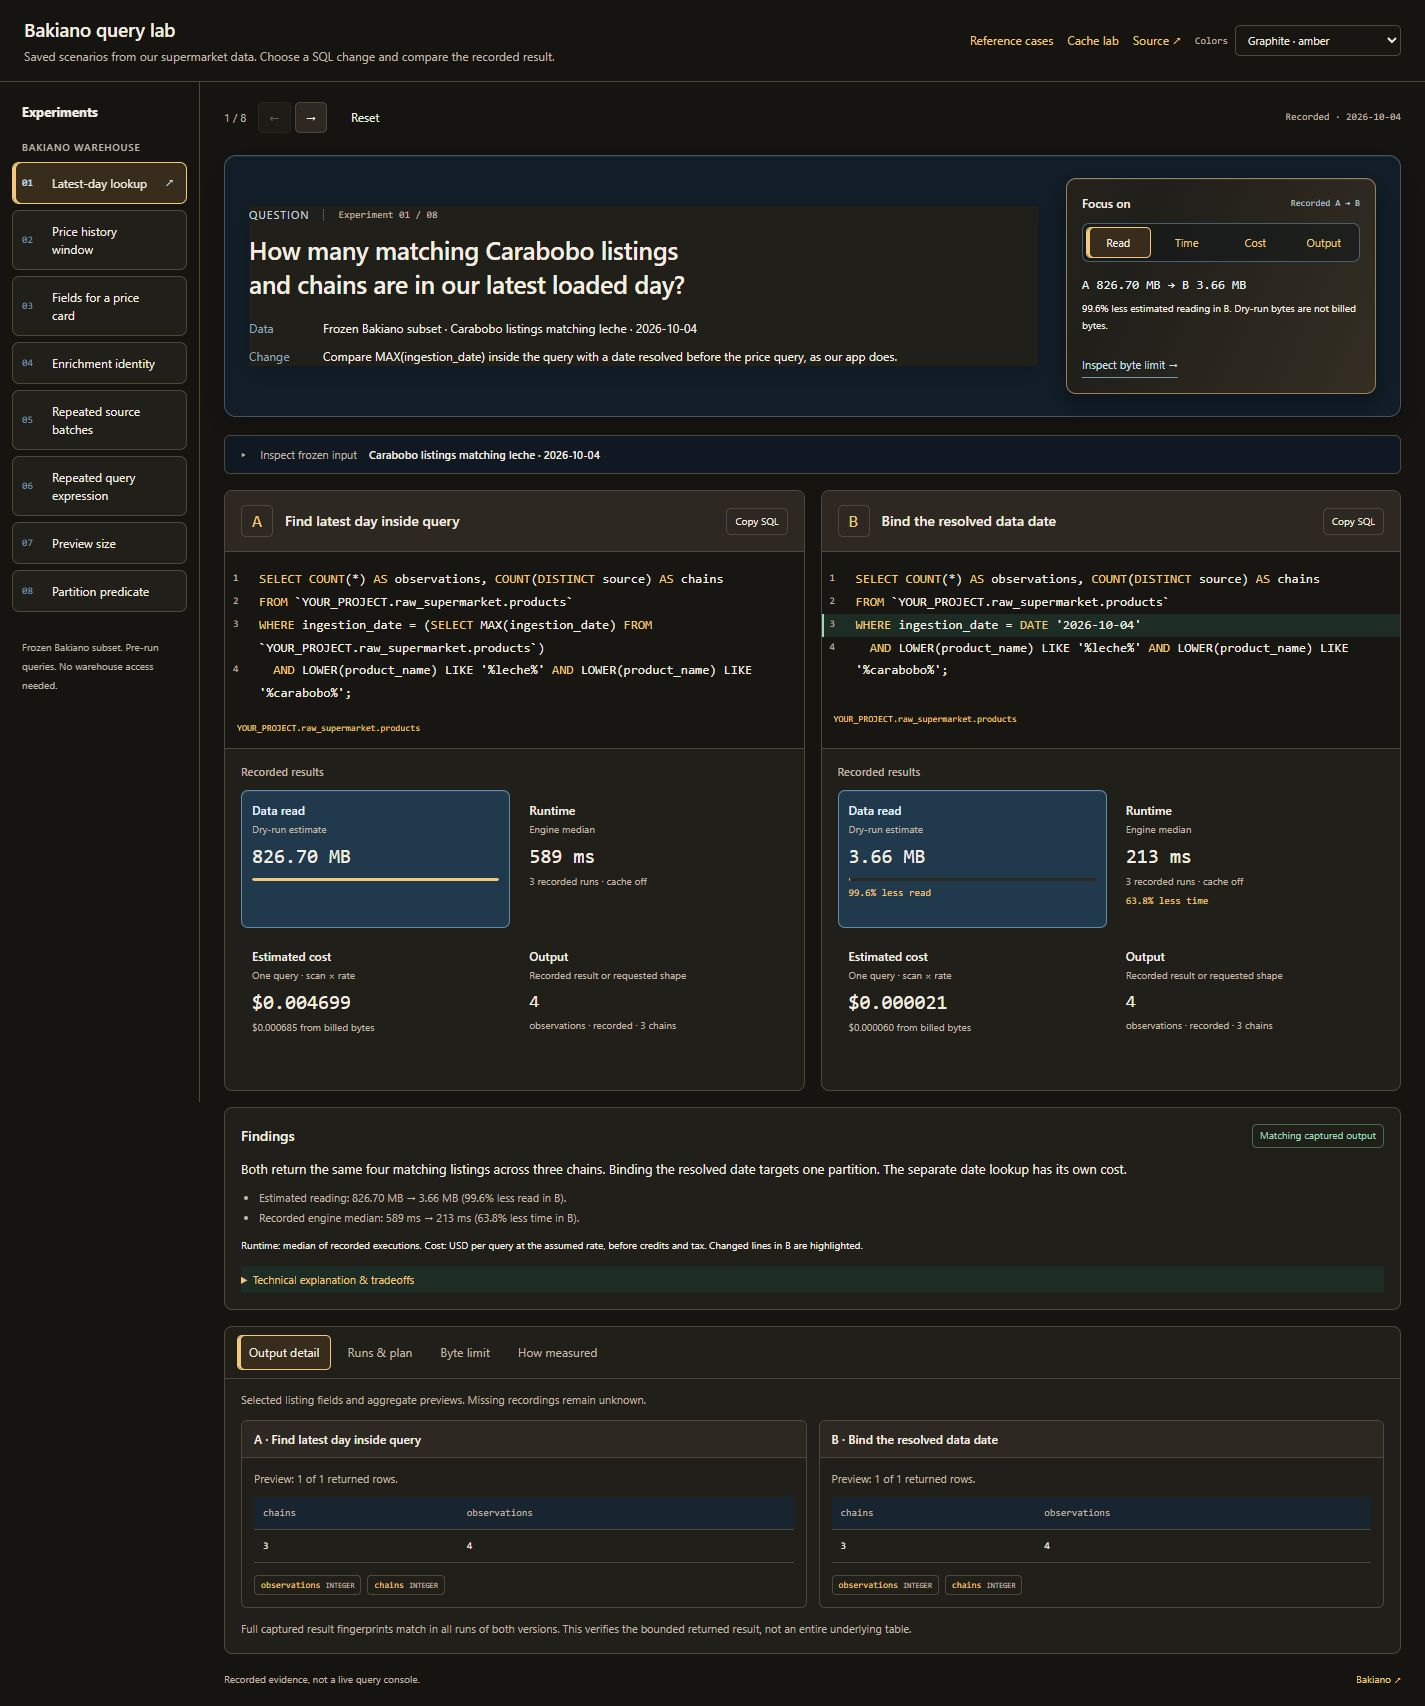
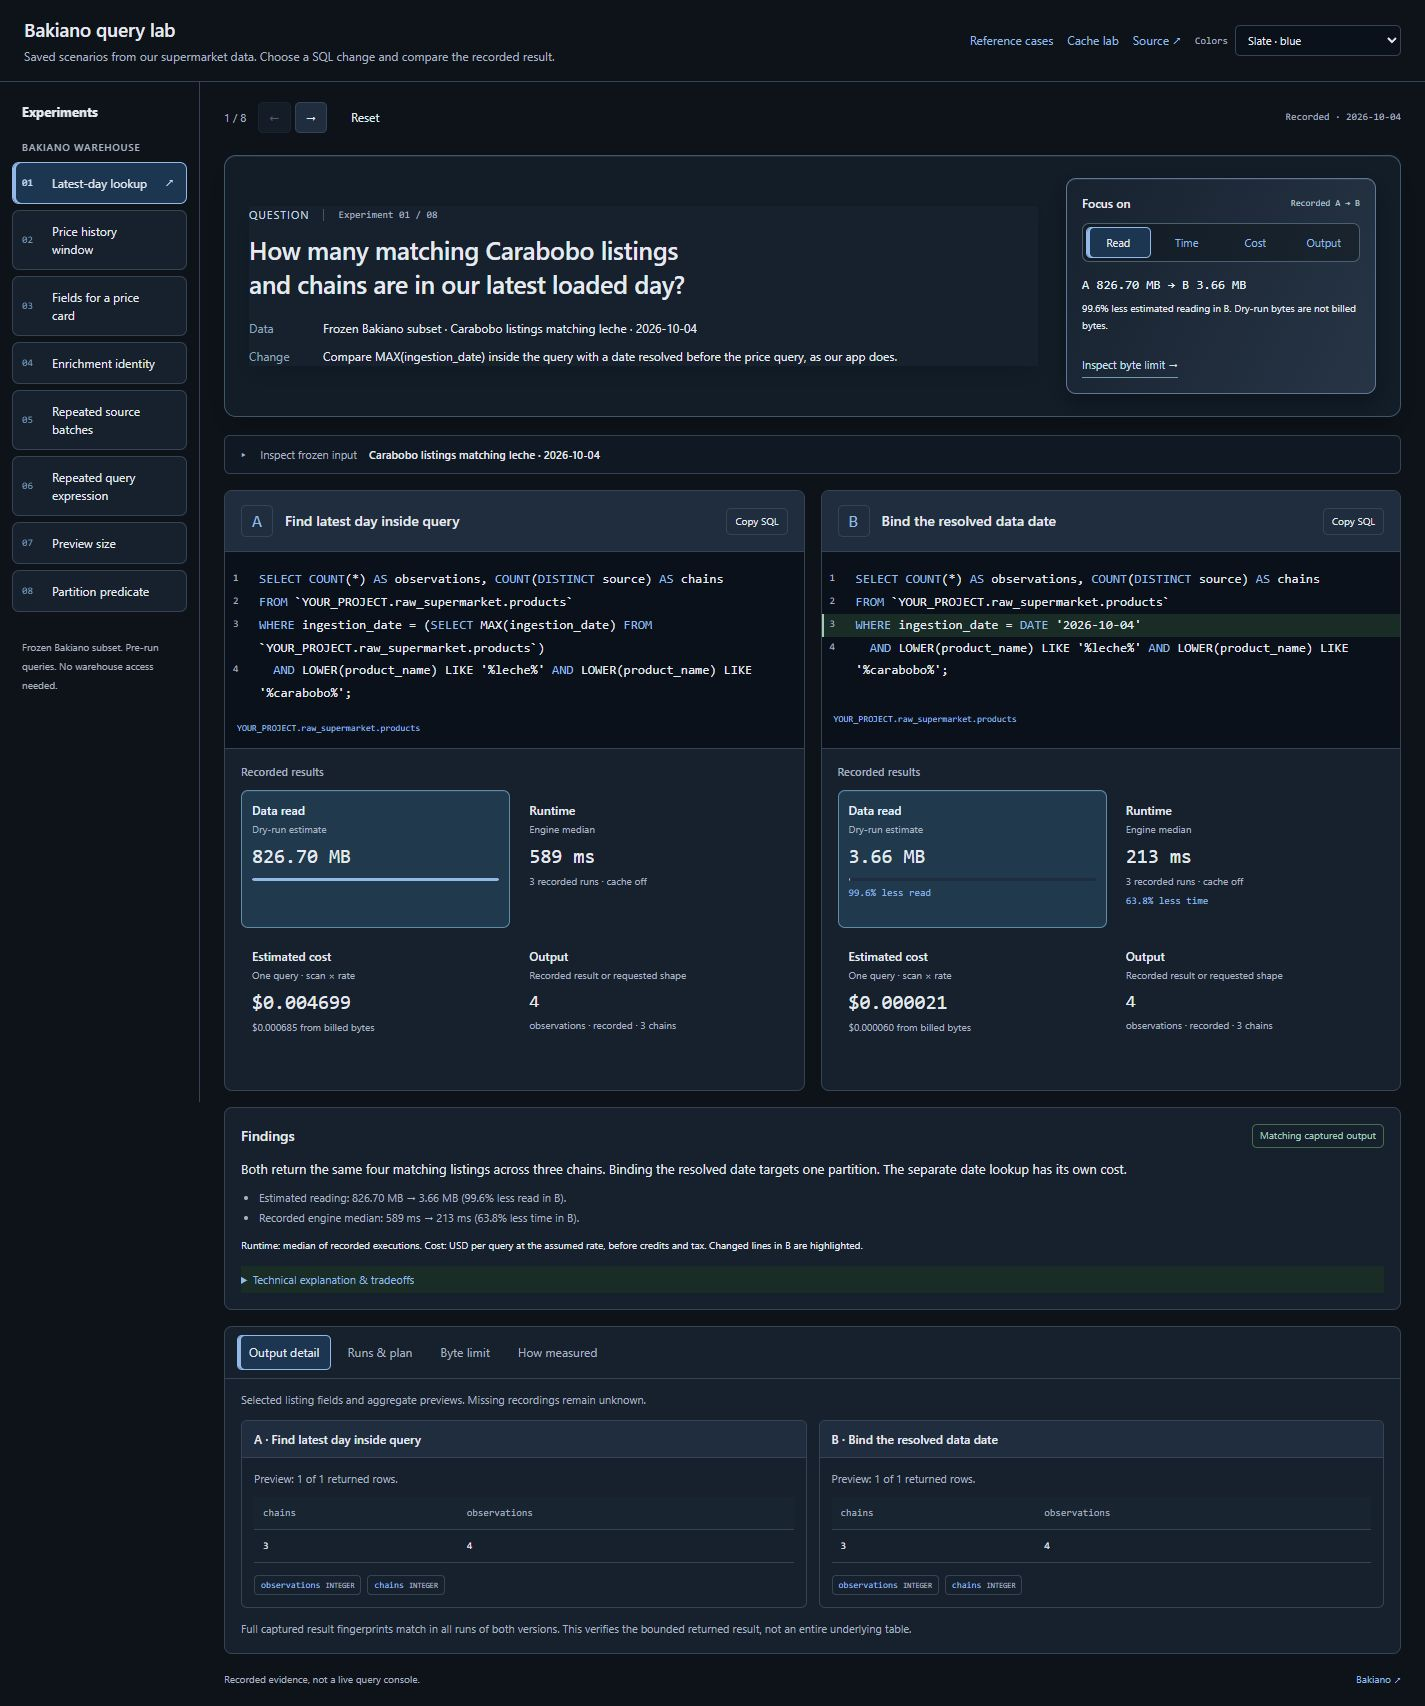
docs: show dim blue lab palettes in the gallery

diff --git a/README.md b/README.md
@@ -18,7 +18,7 @@ Public engineering case study by Alejandro Frank. The product source is private.
 
 All three local demos require Node.js 22+ and run without credentials. Default browser interactions make no cloud or model calls.
 
-All three labs share a **Colors** selector: Graphite / amber, Slate / cyan and Ink / lilac. Preferences are saved locally; changing the palette preserves the experiment and its evidence.
+All three labs share a **Colors** selector: Slate / blue, Graphite / grey and Midnight / blue. Preferences are saved locally; changing the palette preserves the experiment and its evidence.
 
 <details>
 <summary><strong>Ingestion:</strong> eight rows with either receipt rule, but one read and merge versus two</summary>
